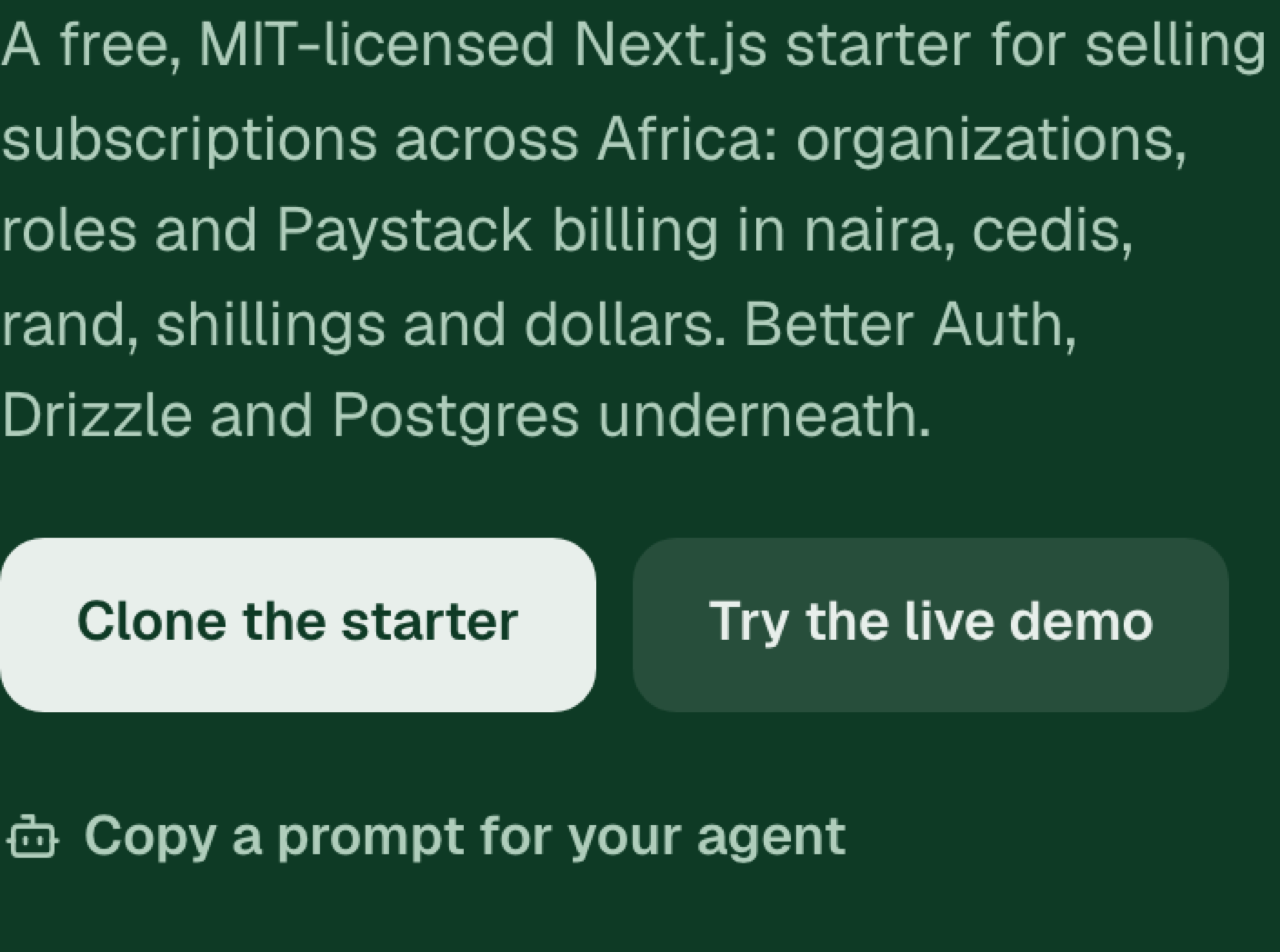
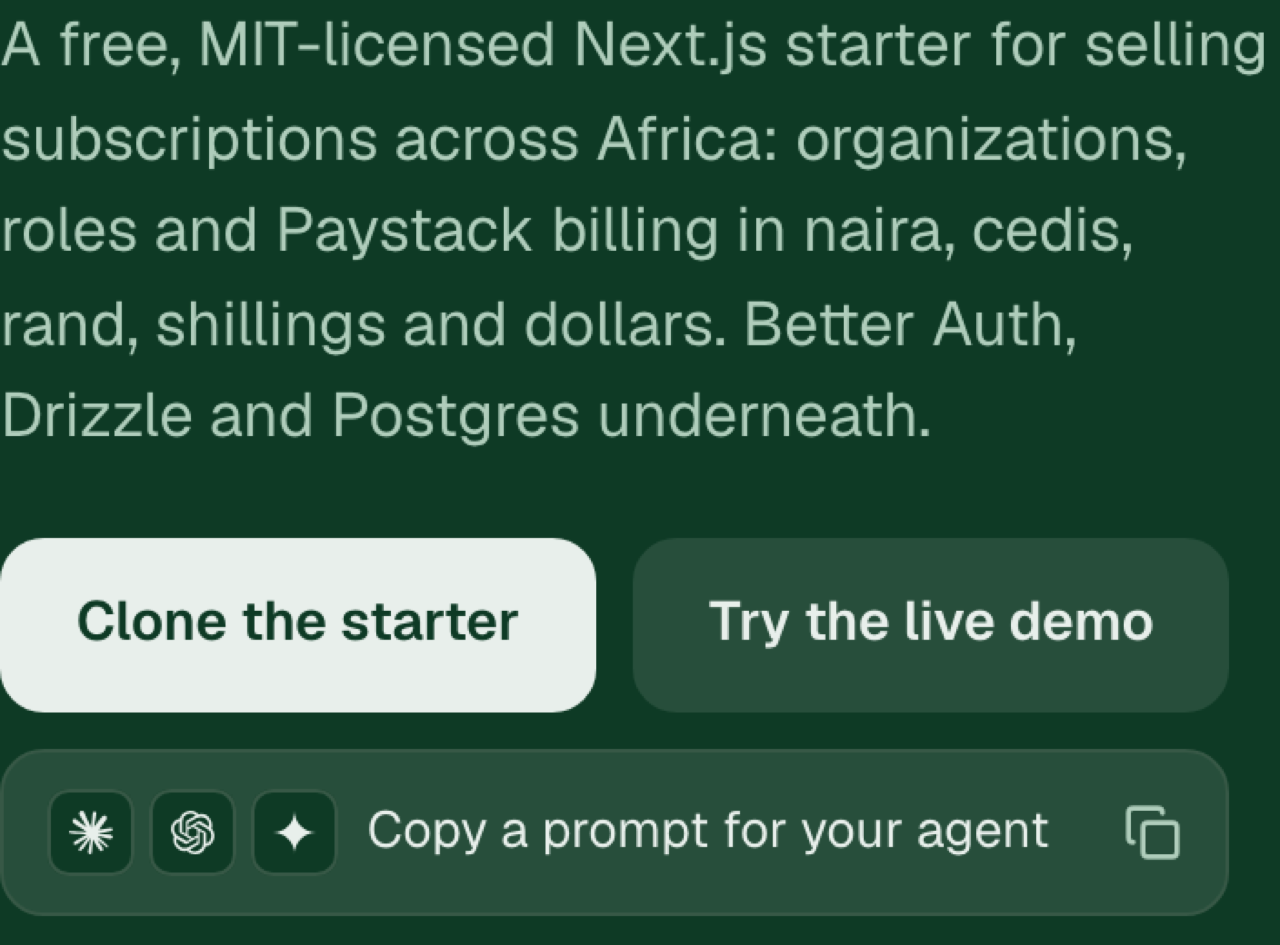
Make the hero's agent button a chip with the agents it works with
Modelled on the copy button at robotostudio.com/contact: Claude, ChatGPT
and Gemini marks (official Simple Icons paths), the label and a copy icon
that turns into a tick. It spans the two buttons above it, and the label
fits on one line down to 320px.

diff --git a/apps/web/src/components/landing/agent-logos.tsx b/apps/web/src/components/landing/agent-logos.tsx
@@ -1,0 +1,33 @@
+/**
+ * The three coding agents most visitors paste into, as small marks on the
+ * hero's agent button. Paths are the official marks from Simple Icons
+ * v15.0.0 (CC0): claude, openai and googlegemini.
+ */
+export const AGENT_LOGOS = [
+  {
+    name: "Claude",
+    path: "m4.7144 15.9555 4.7174-2.6471.079-.2307-.079-.1275h-.2307l-.7893-.0486-2.6956-.0729-2.3375-.0971-2.2646-.1214-.5707-.1215-.5343-.7042.0546-.3522.4797-.3218.686.0608 1.5179.1032 2.2767.1578 1.6514.0972 2.4468.255h.3886l.0546-.1579-.1336-.0971-.1032-.0972L6.973 9.8356l-2.55-1.6879-1.3356-.9714-.7225-.4918-.3643-.4614-.1578-1.0078.6557-.7225.8803.0607.2246.0607.8925.686 1.9064 1.4754 2.4893 1.8336.3643.3035.1457-.1032.0182-.0728-.164-.2733-1.3539-2.4467-1.445-2.4893-.6435-1.032-.17-.6194c-.0607-.255-.1032-.4674-.1032-.7285L6.287.1335 6.6997 0l.9957.1336.419.3642.6192 1.4147 1.0018 2.2282 1.5543 3.0296.4553.8985.2429.8318.091.255h.1579v-.1457l.1275-1.706.2368-2.0947.2307-2.6957.0789-.7589.3764-.9107.7468-.4918.5828.2793.4797.686-.0668.4433-.2853 1.8517-.5586 2.9021-.3643 1.9429h.2125l.2429-.2429.9835-1.3053 1.6514-2.0643.7286-.8196.85-.9046.5464-.4311h1.0321l.759 1.1293-.34 1.1657-1.0625 1.3478-.8804 1.1414-1.2628 1.7-.7893 1.36.0729.1093.1882-.0183 2.8535-.607 1.5421-.2794 1.8396-.3157.8318.3886.091.3946-.3278.8075-1.967.4857-2.3072.4614-3.4364.8136-.0425.0304.0486.0607 1.5482.1457.6618.0364h1.621l3.0175.2247.7892.522.4736.6376-.079.4857-1.2142.6193-1.6393-.3886-3.825-.9107-1.3113-.3279h-.1822v.1093l1.0929 1.0686 2.0035 1.8092 2.5075 2.3314.1275.5768-.3218.4554-.34-.0486-2.2039-1.6575-.85-.7468-1.9246-1.621h-.1275v.17l.4432.6496 2.3436 3.5214.1214 1.0807-.17.3521-.6071.2125-.6679-.1214-1.3721-1.9246L14.38 17.959l-1.1414-1.9428-.1397.079-.674 7.2552-.3156.3703-.7286.2793-.6071-.4614-.3218-.7468.3218-1.4753.3886-1.9246.3157-1.53.2853-1.9004.17-.6314-.0121-.0425-.1397.0182-1.4328 1.9672-2.1796 2.9446-1.7243 1.8456-.4128.164-.7164-.3704.0667-.6618.4008-.5889 2.386-3.0357 1.4389-1.882.929-1.0868-.0062-.1579h-.0546l-6.3385 4.1164-1.1293.1457-.4857-.4554.0608-.7467.2307-.2429 1.9064-1.3114Z",
+  },
+  {
+    name: "ChatGPT",
+    path: "M22.2819 9.8211a5.9847 5.9847 0 0 0-.5157-4.9108 6.0462 6.0462 0 0 0-6.5098-2.9A6.0651 6.0651 0 0 0 4.9807 4.1818a5.9847 5.9847 0 0 0-3.9977 2.9 6.0462 6.0462 0 0 0 .7427 7.0966 5.98 5.98 0 0 0 .511 4.9107 6.051 6.051 0 0 0 6.5146 2.9001A5.9847 5.9847 0 0 0 13.2599 24a6.0557 6.0557 0 0 0 5.7718-4.2058 5.9894 5.9894 0 0 0 3.9977-2.9001 6.0557 6.0557 0 0 0-.7475-7.0729zm-9.022 12.6081a4.4755 4.4755 0 0 1-2.8764-1.0408l.1419-.0804 4.7783-2.7582a.7948.7948 0 0 0 .3927-.6813v-6.7369l2.02 1.1686a.071.071 0 0 1 .038.052v5.5826a4.504 4.504 0 0 1-4.4945 4.4944zm-9.6607-4.1254a4.4708 4.4708 0 0 1-.5346-3.0137l.142.0852 4.783 2.7582a.7712.7712 0 0 0 .7806 0l5.8428-3.3685v2.3324a.0804.0804 0 0 1-.0332.0615L9.74 19.9502a4.4992 4.4992 0 0 1-6.1408-1.6464zM2.3408 7.8956a4.485 4.485 0 0 1 2.3655-1.9728V11.6a.7664.7664 0 0 0 .3879.6765l5.8144 3.3543-2.0201 1.1685a.0757.0757 0 0 1-.071 0l-4.8303-2.7865A4.504 4.504 0 0 1 2.3408 7.872zm16.5963 3.8558L13.1038 8.364 15.1192 7.2a.0757.0757 0 0 1 .071 0l4.8303 2.7913a4.4944 4.4944 0 0 1-.6765 8.1042v-5.6772a.79.79 0 0 0-.407-.667zm2.0107-3.0231l-.142-.0852-4.7735-2.7818a.7759.7759 0 0 0-.7854 0L9.409 9.2297V6.8974a.0662.0662 0 0 1 .0284-.0615l4.8303-2.7866a4.4992 4.4992 0 0 1 6.6802 4.66zM8.3065 12.863l-2.02-1.1638a.0804.0804 0 0 1-.038-.0567V6.0742a4.4992 4.4992 0 0 1 7.3757-3.4537l-.142.0805L8.704 5.459a.7948.7948 0 0 0-.3927.6813zm1.0976-2.3654l2.602-1.4998 2.6069 1.4998v2.9994l-2.5974 1.4997-2.6067-1.4997Z",
+  },
+  {
+    name: "Gemini",
+    path: "M11.04 19.32Q12 21.51 12 24q0-2.49.93-4.68.96-2.19 2.58-3.81t3.81-2.55Q21.51 12 24 12q-2.49 0-4.68-.93a12.3 12.3 0 0 1-3.81-2.58 12.3 12.3 0 0 1-2.58-3.81Q12 2.49 12 0q0 2.49-.96 4.68-.93 2.19-2.55 3.81a12.3 12.3 0 0 1-3.81 2.58Q2.49 12 0 12q2.49 0 4.68.96 2.19.93 3.81 2.55t2.55 3.81",
+  },
+] as const;
+
+/** One mark in a small tile, drawn in the current text colour. */
+export function AgentLogo({ path }: { path: string }) {
+  return (
+    <svg
+      aria-hidden
+      className="size-3 fill-current"
+      role="presentation"
+      viewBox="0 0 24 24"
+    >
+      <path d={path} />
+    </svg>
+  );
+}

diff --git a/apps/web/src/components/landing/start-command.tsx b/apps/web/src/components/landing/start-command.tsx
@@ -1,10 +1,10 @@
 "use client";
 
 import { cn } from "@workspace/tailwind-config/utils";
-import { buttonVariants } from "@workspace/ui/components/button";
-import { BotIcon, CheckIcon, CopyIcon } from "lucide-react";
+import { CheckIcon, CopyIcon } from "lucide-react";
 import { useEffect, useRef, useState, useSyncExternalStore } from "react";
 
+import { AGENT_LOGOS, AgentLogo } from "@/components/landing/agent-logos";
 import { Segmented, type SegmentOption } from "@/components/landing/segmented";
 import {
   AGENT_PROMPT,
@@ -236,8 +236,10 @@ export function InstallCommand() {
 }
 
 /**
- * The hero's shortcut: copies the agent prompt in one press and remembers
- * "Your agent", so the receipt at the bottom opens on the same prompt.
+ * The hero's shortcut, after robotostudio.com/contact: a bordered chip with
+ * the agents it works with, the action, and a copy icon that turns into a
+ * tick. One press copies the agent prompt and remembers "Your agent", so the
+ * receipt at the bottom opens on the same prompt.
  */
 export function AgentPromptButton({ className }: { className?: string }) {
   const { copied, copy } = useCopy();
@@ -246,26 +248,50 @@ export function AgentPromptButton({ className }: { className?: string }) {
     <button
       aria-label={copied ? "Copied" : START_WITH.agent.name}
       className={cn(
-        buttonVariants({ size: "lg", variant: "ghost" }),
-        // Flush left with the buttons above: no padding on the text side,
-        // so the hover is a colour change rather than a tile.
-        "pl-0 text-panel-muted hover:bg-transparent hover:text-panel-foreground no-js:hidden",
+        "pressable group inline-flex min-h-11.5 items-center gap-2 rounded-control border border-panel-line bg-panel-tile px-3 text-panel-foreground text-xs min-[370px]:text-sm transition-[background-color,border-color,scale] hover:border-panel-muted/40 hover:bg-panel-line no-js:hidden",
         className
       )}
       data-agent-copy
+      data-copied={copied}
       onClick={() => {
         setStartWith("agent");
         copy("agent");
       }}
       type="button"
     >
-      <span className="grid place-items-center [&>*]:col-start-1 [&>*]:row-start-1">
-        <CopyLabel
-          icon={BotIcon}
-          shown={!copied}
-          text="Copy a prompt for your agent"
+      <span
+        aria-hidden
+        className="grid shrink-0 grid-flow-col gap-1 max-[340px]:hidden"
+      >
+        {AGENT_LOGOS.map((logo) => (
+          <span
+            className="grid size-6 place-items-center rounded-[6px] bg-panel inset-ring inset-ring-panel-line"
+            key={logo.name}
+            title={logo.name}
+          >
+            <AgentLogo path={logo.path} />
+          </span>
+        ))}
+      </span>
+      <span className="[text-box:trim-both_cap_alphabetic]">
+        Copy a prompt for your agent
+      </span>
+      <span
+        aria-hidden
+        className="ml-auto grid place-items-center text-panel-muted [&>*]:col-start-1 [&>*]:row-start-1"
+      >
+        <CopyIcon
+          className={cn(
+            "size-4 transition-[opacity,scale,filter] duration-(--dur-base) ease-(--ease-out) motion-reduce:transition-none",
+            copied && "scale-[0.85] opacity-0 blur-[2px]"
+          )}
         />
-        <CopyLabel icon={CheckIcon} shown={copied} text="Copied" />
+        <CheckIcon
+          className={cn(
+            "size-4 text-panel-foreground transition-[opacity,scale,filter] duration-(--dur-base) ease-(--ease-out) motion-reduce:transition-none",
+            !copied && "scale-[0.85] opacity-0 blur-[2px]"
+          )}
+        />
       </span>
     </button>
   );

diff --git a/apps/web/src/components/landing/hero.tsx b/apps/web/src/components/landing/hero.tsx
@@ -240,7 +240,7 @@ export function Hero({
               cedis, rand, shillings and dollars. Better Auth, Drizzle and
               Postgres underneath.
             </p>
-            <div className="grid gap-2.5 min-[420px]:flex min-[420px]:flex-wrap">
+            <div className="grid gap-2.5 min-[420px]:w-fit min-[420px]:grid-cols-[auto_auto]">
               <a className={buttonVariants({ size: "lg" })} href="#start">
                 Clone the starter
               </a>
@@ -253,7 +253,8 @@ export function Hero({
               >
                 {signedIn ? "Open your dashboard" : "Try the live demo"}
               </Link>
-              <AgentPromptButton className="min-[420px]:basis-full min-[420px]:justify-start" />
+              {/* Its own row, as wide as the two buttons above it. */}
+              <AgentPromptButton className="col-span-full w-full" />
             </div>
           </div>
         </div>
